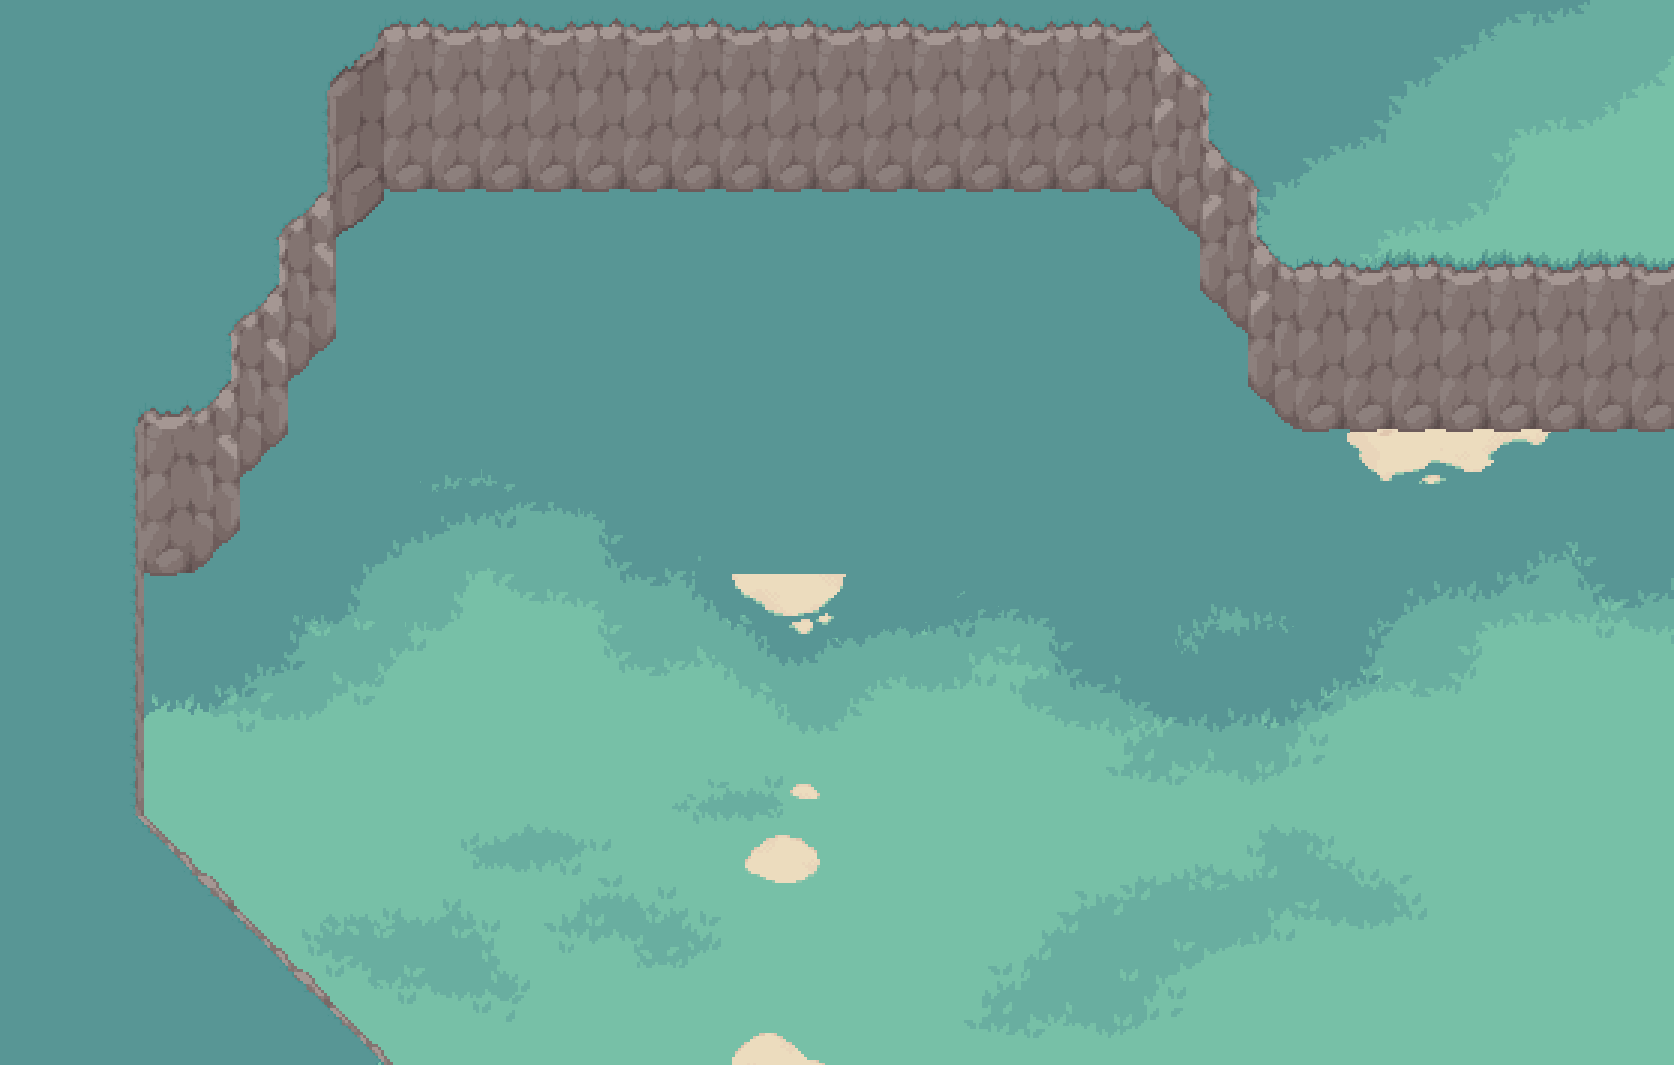
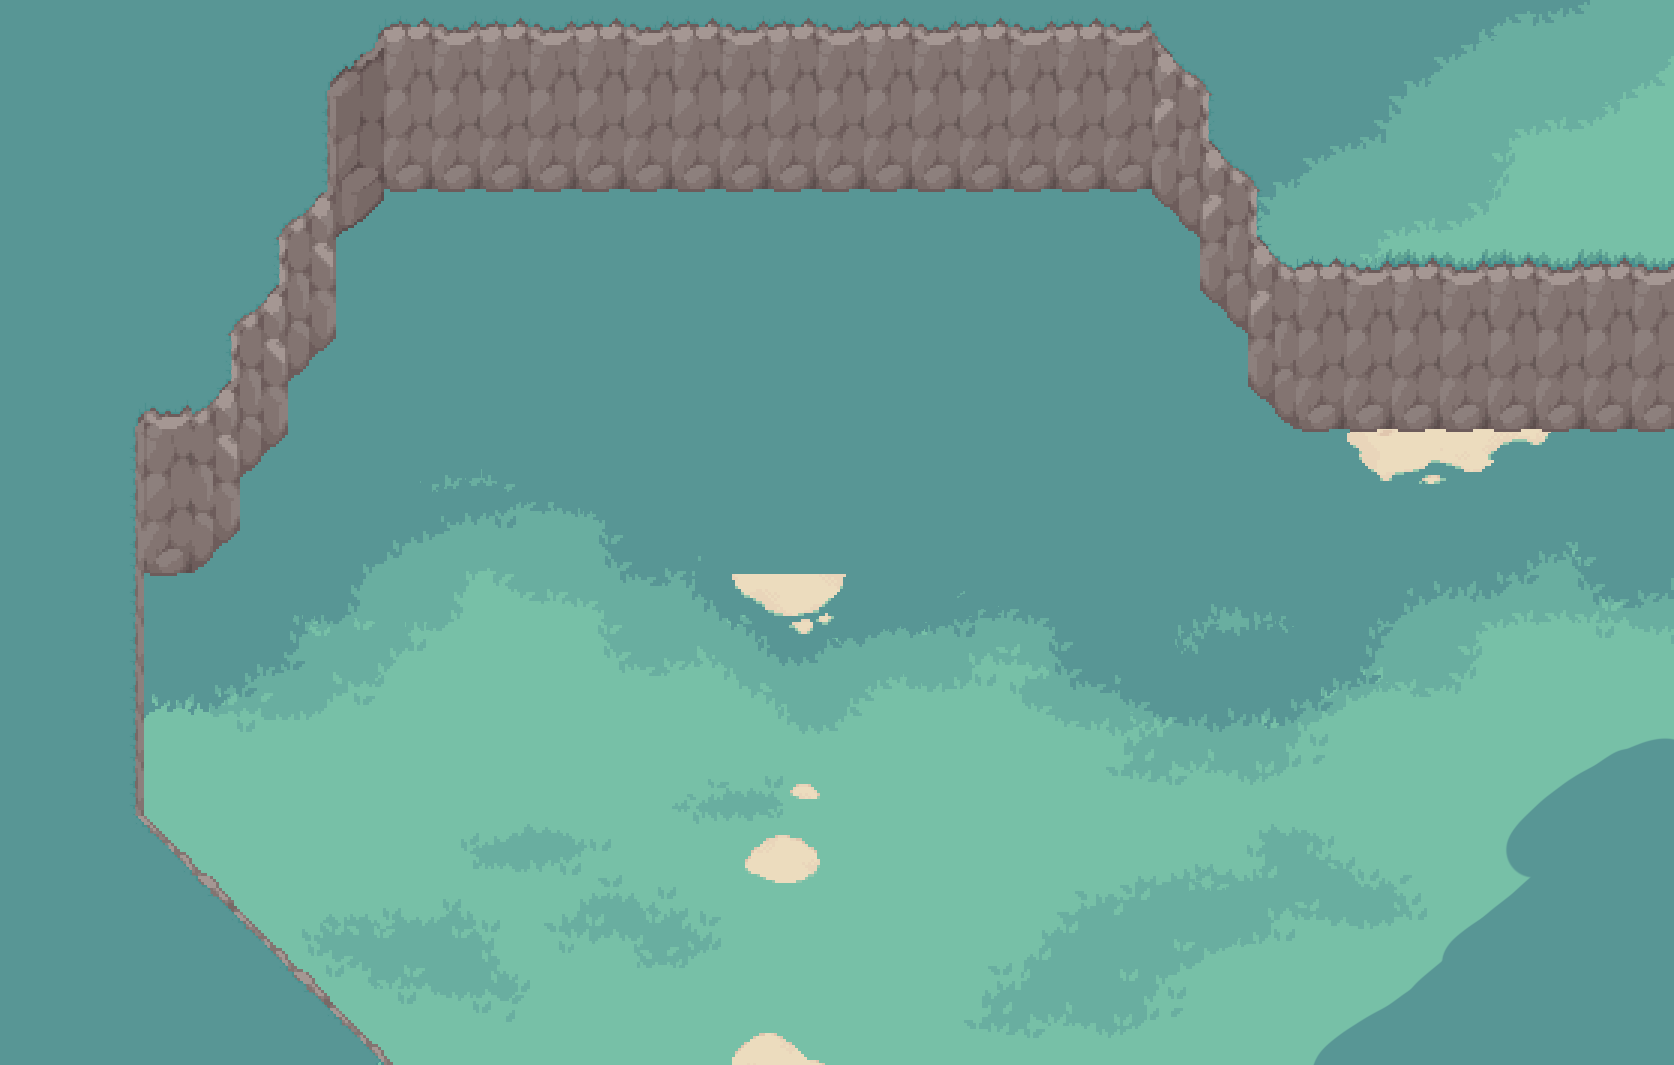
이재영 : 맵 오브젝트 콜리전 추가

Changed region(s): [[0.7766, 0.6817, 1.0, 1.0]]

diff --git a/DX/Little_Witch_In_The_Woods/MapObject.h b/DX/Little_Witch_In_The_Woods/MapObject.h
@@ -29,6 +29,16 @@ public:
 		return Sprite;
 	}
 
+	void SetCollision(std::shared_ptr<class UCollision> _Collision)
+	{
+		Collision = _Collision;
+	}
+
+	std::shared_ptr<class UCollision>& GetCollision()
+	{
+		return Collision;
+	}
+
 	void SetSpriteIndex(int _SpriteIndex)
 	{
 		SpriteIndex = _SpriteIndex;
@@ -59,10 +69,23 @@ public:
 		return SpritePivot;
 	}
 
+	void SetColActive(bool _Value)
+	{
+		IsColActive = _Value;
+	}
+
+	bool GetColActive()
+	{
+		return IsColActive;
+	}
+
 protected:
 
 private:
 	std::shared_ptr<class USpriteRenderer> Sprite;
+	std::shared_ptr<class UCollision> Collision;
+
+	bool IsColActive = true;
 
 	int SpriteIndex;
 	std::string SpriteName;

diff --git a/DX/Little_Witch_In_The_Woods/MapObject.cpp b/DX/Little_Witch_In_The_Woods/MapObject.cpp
@@ -2,6 +2,7 @@
 #include "MapObject.h"
 #include <EngineCore/DefaultSceneComponent.h>
 #include <EngineCore/SpriteRenderer.h>
+#include <EngineCore/Collision.h>
 
 
 AMapObject::AMapObject()
@@ -11,6 +12,9 @@ AMapObject::AMapObject()
 
 	Sprite = CreateDefaultSubObject<USpriteRenderer>();
 	Sprite->SetupAttachment(RootComponent);
+
+	Collision = CreateDefaultSubObject<UCollision>();
+	Collision->SetupAttachment(RootComponent);
 }
 
 AMapObject::~AMapObject()
